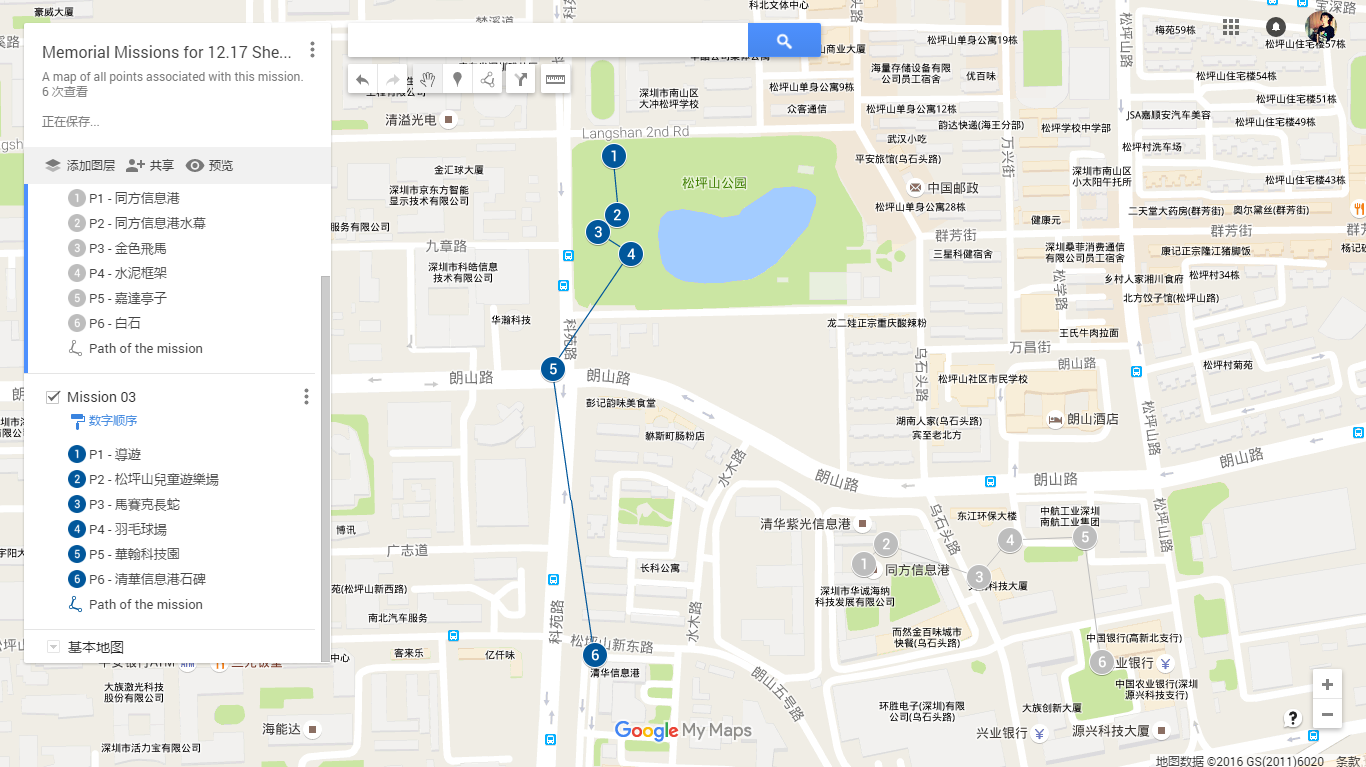
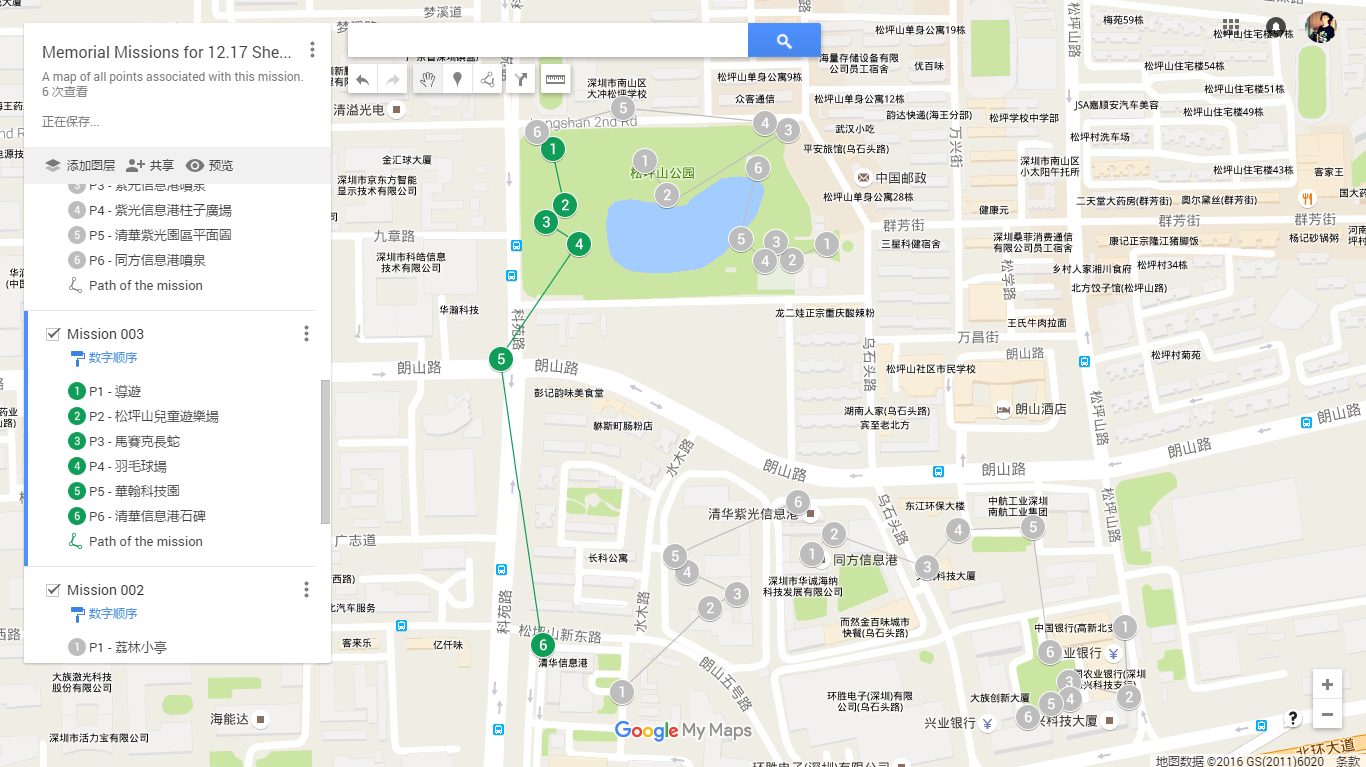
update
Former-commit-id: 7212a2974bf29f5455cf80ce5b38a2f2ed25822d
Former-commit-id: 6dc79c0241804cd32dc76fe9fb69d8f056cf7d84

diff --git a/post/1217_mission_of_shenzhen/1217_mission_of_shenzhen.md b/post/1217_mission_of_shenzhen/1217_mission_of_shenzhen.md
@@ -36,6 +36,14 @@ Though it was a region of villages gathering sort of fishers yesterday, it has n
 
 ### Tasks
 
+任務主要分為六大部分 (詳細請查看[谷歌地圖](https://www.google.com/maps/d/embed?mid=1N9Jhsabsrk3s-FmMt75Q5AvdxQs)):
+
+The task has been divided into 6 small one (more details in [Google map](https://www.google.com/maps/d/embed?mid=1N9Jhsabsrk3s-FmMt75Q5AvdxQs)):
+
+![](./whole.png)
+
+<iframe src="https://www.google.com/maps/d/embed?mid=1N9Jhsabsrk3s-FmMt75Q5AvdxQs" width="100%" height="auto"></iframe>
+
 #### Memorial Missions for 12.17 Shenzhen - 001
 
 ![](./task1.png)
